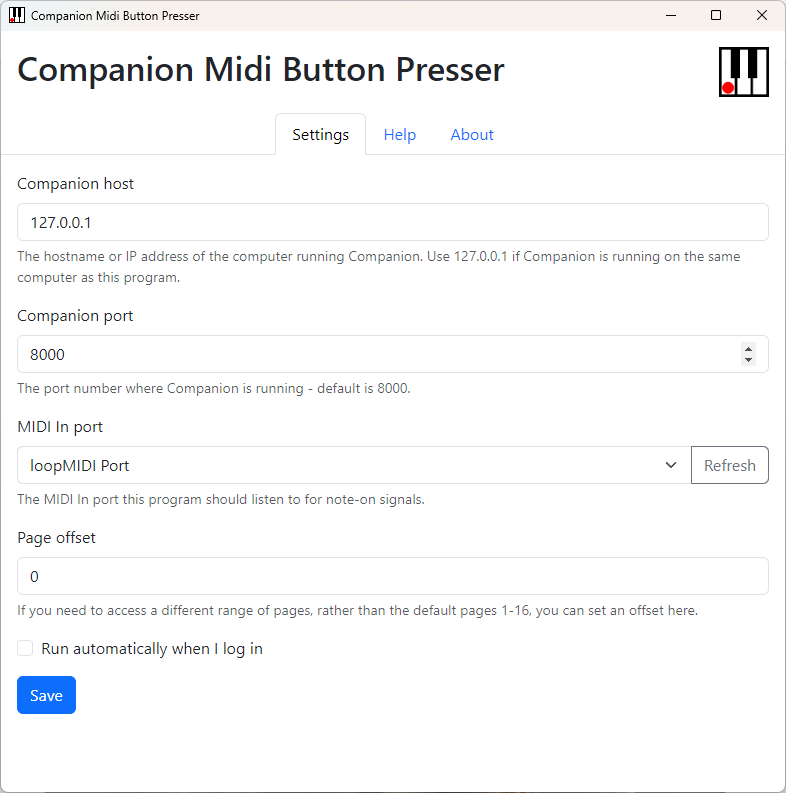
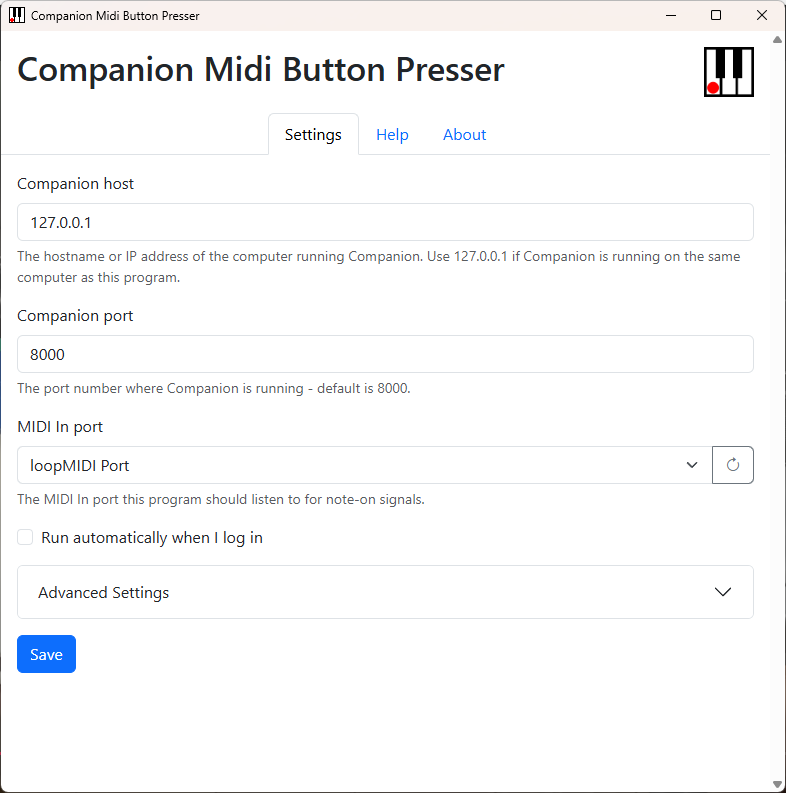
Help page tweaks

diff --git a/src/renderer/help-configure.html b/src/renderer/help-configure.html
@@ -55,10 +55,16 @@
         </p>
         <p class="text-center"><img src="images/CMBP2.png" class="img-fluid"
                 alt="Screenshot showing selection of a MIDI In port" /></p>
+        <p>The <b>Run automatically when I log in</b> checkbox will do exactly what it says on the tin.</p>
+        <p>Click <b>Advanced Settings</b> to reveal additional options:</p>
+        <p class="text-center"><img src="images/CMBP3.png" class="img-fluid"
+                alt="Screenshot showing the advanced settings panel" /></p>
         <p><b>Page offset</b>: By default, this module will let you "press" buttons on Companion pages 1 to 16.
             If you need to access a different range of pages, you can set an offset here - e.g. if you pick a
             page offset of 20, then this module will let you "press" buttons on Companion pages 21 to 36.</p>
-        <p>The <b>Run automatically when I log in</b> checkbox will do exactly what it says on the tin.</p>
+        <p><b>Enable/disable MIDI channels</b>: occasionally you might want this program not to respond to
+            certain MIDI channels, perhaps if a channel is already being used for another purpose. If so, you
+            can disable them here. All 16 channels are enabled by default.</p>
     </div>
 </body>
 
